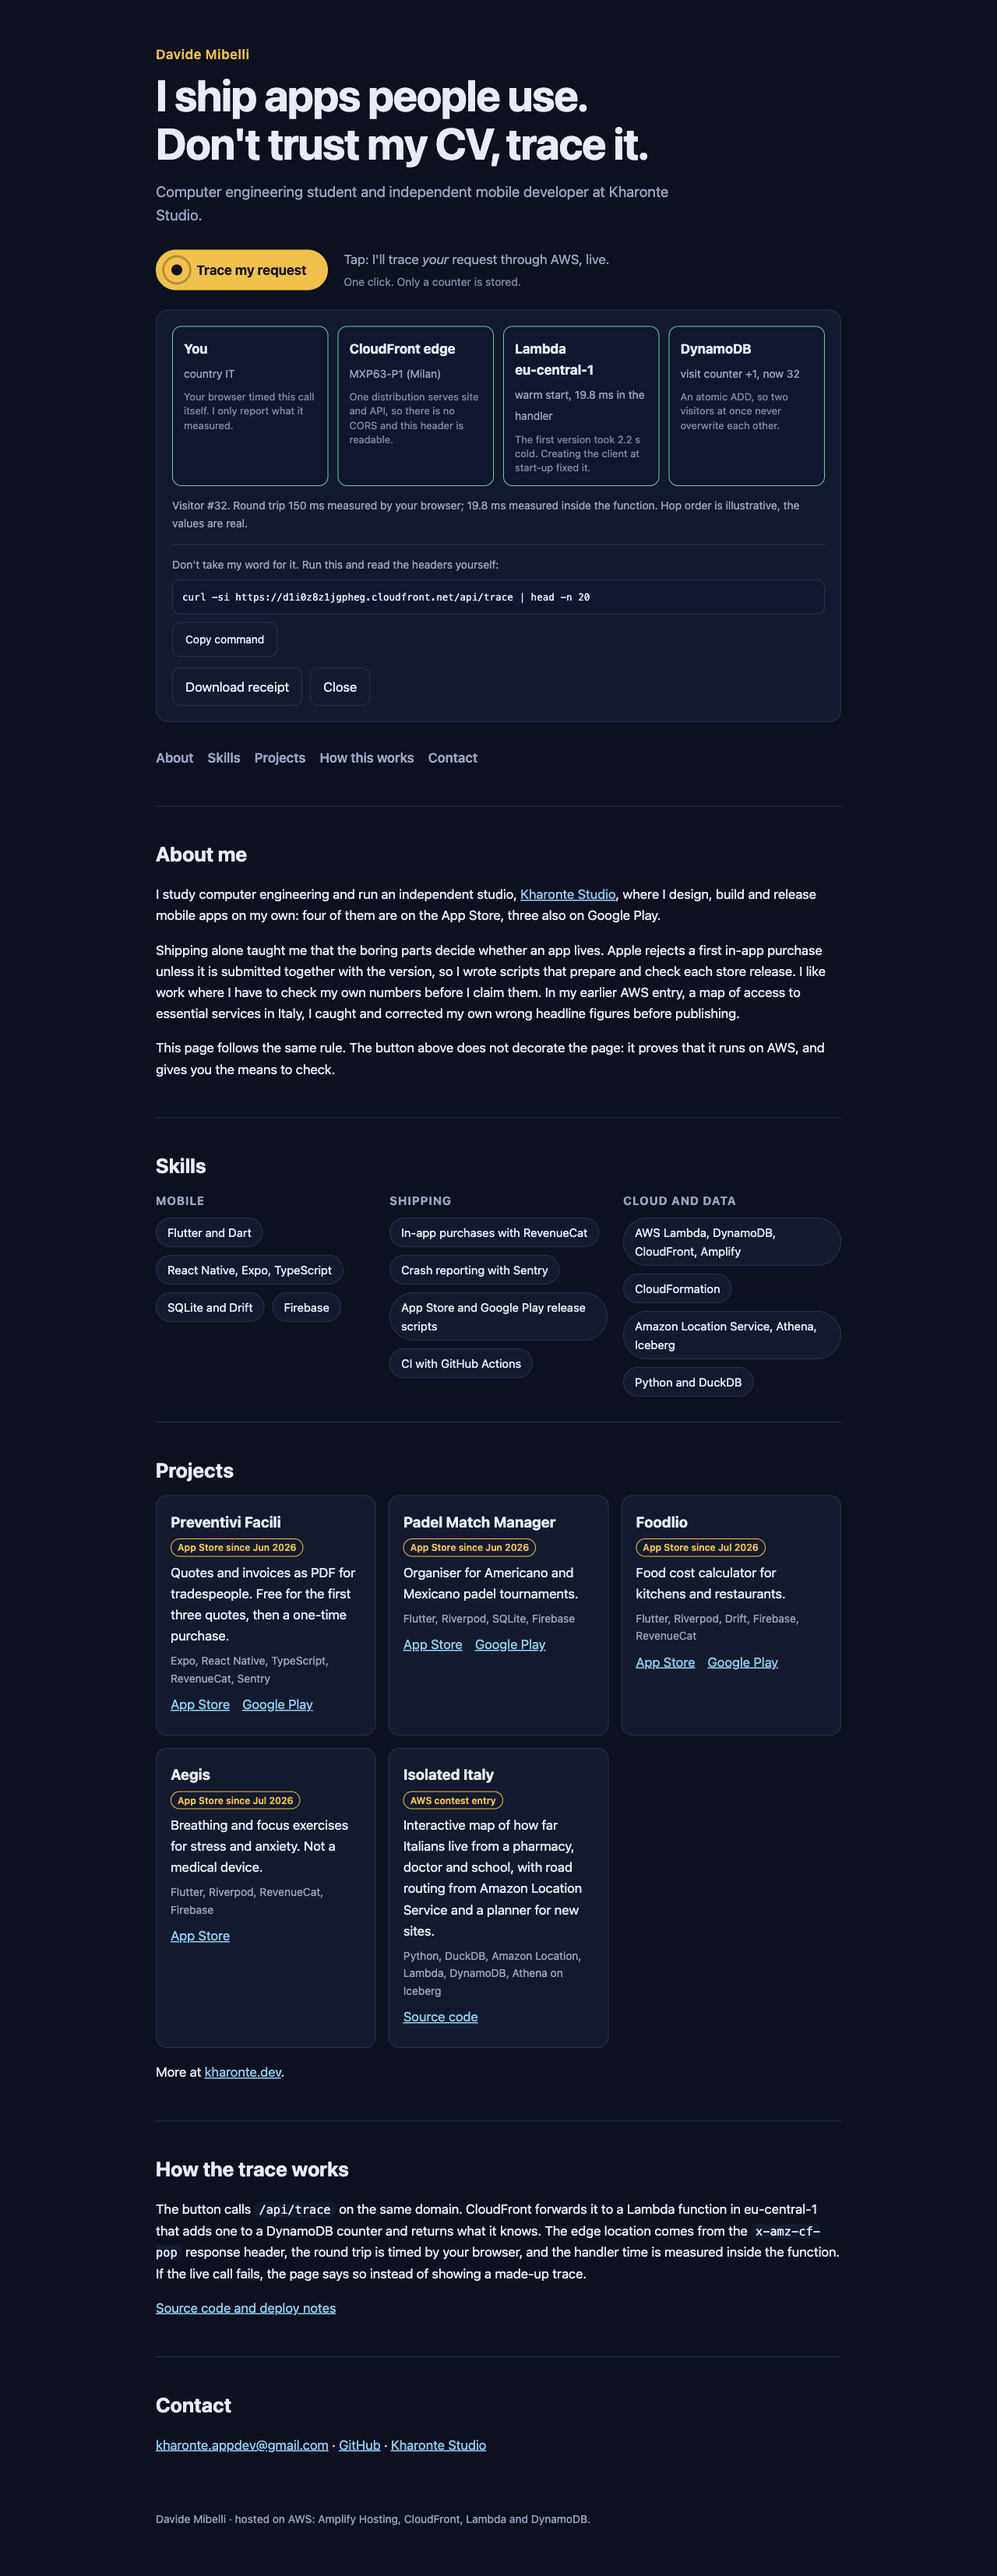
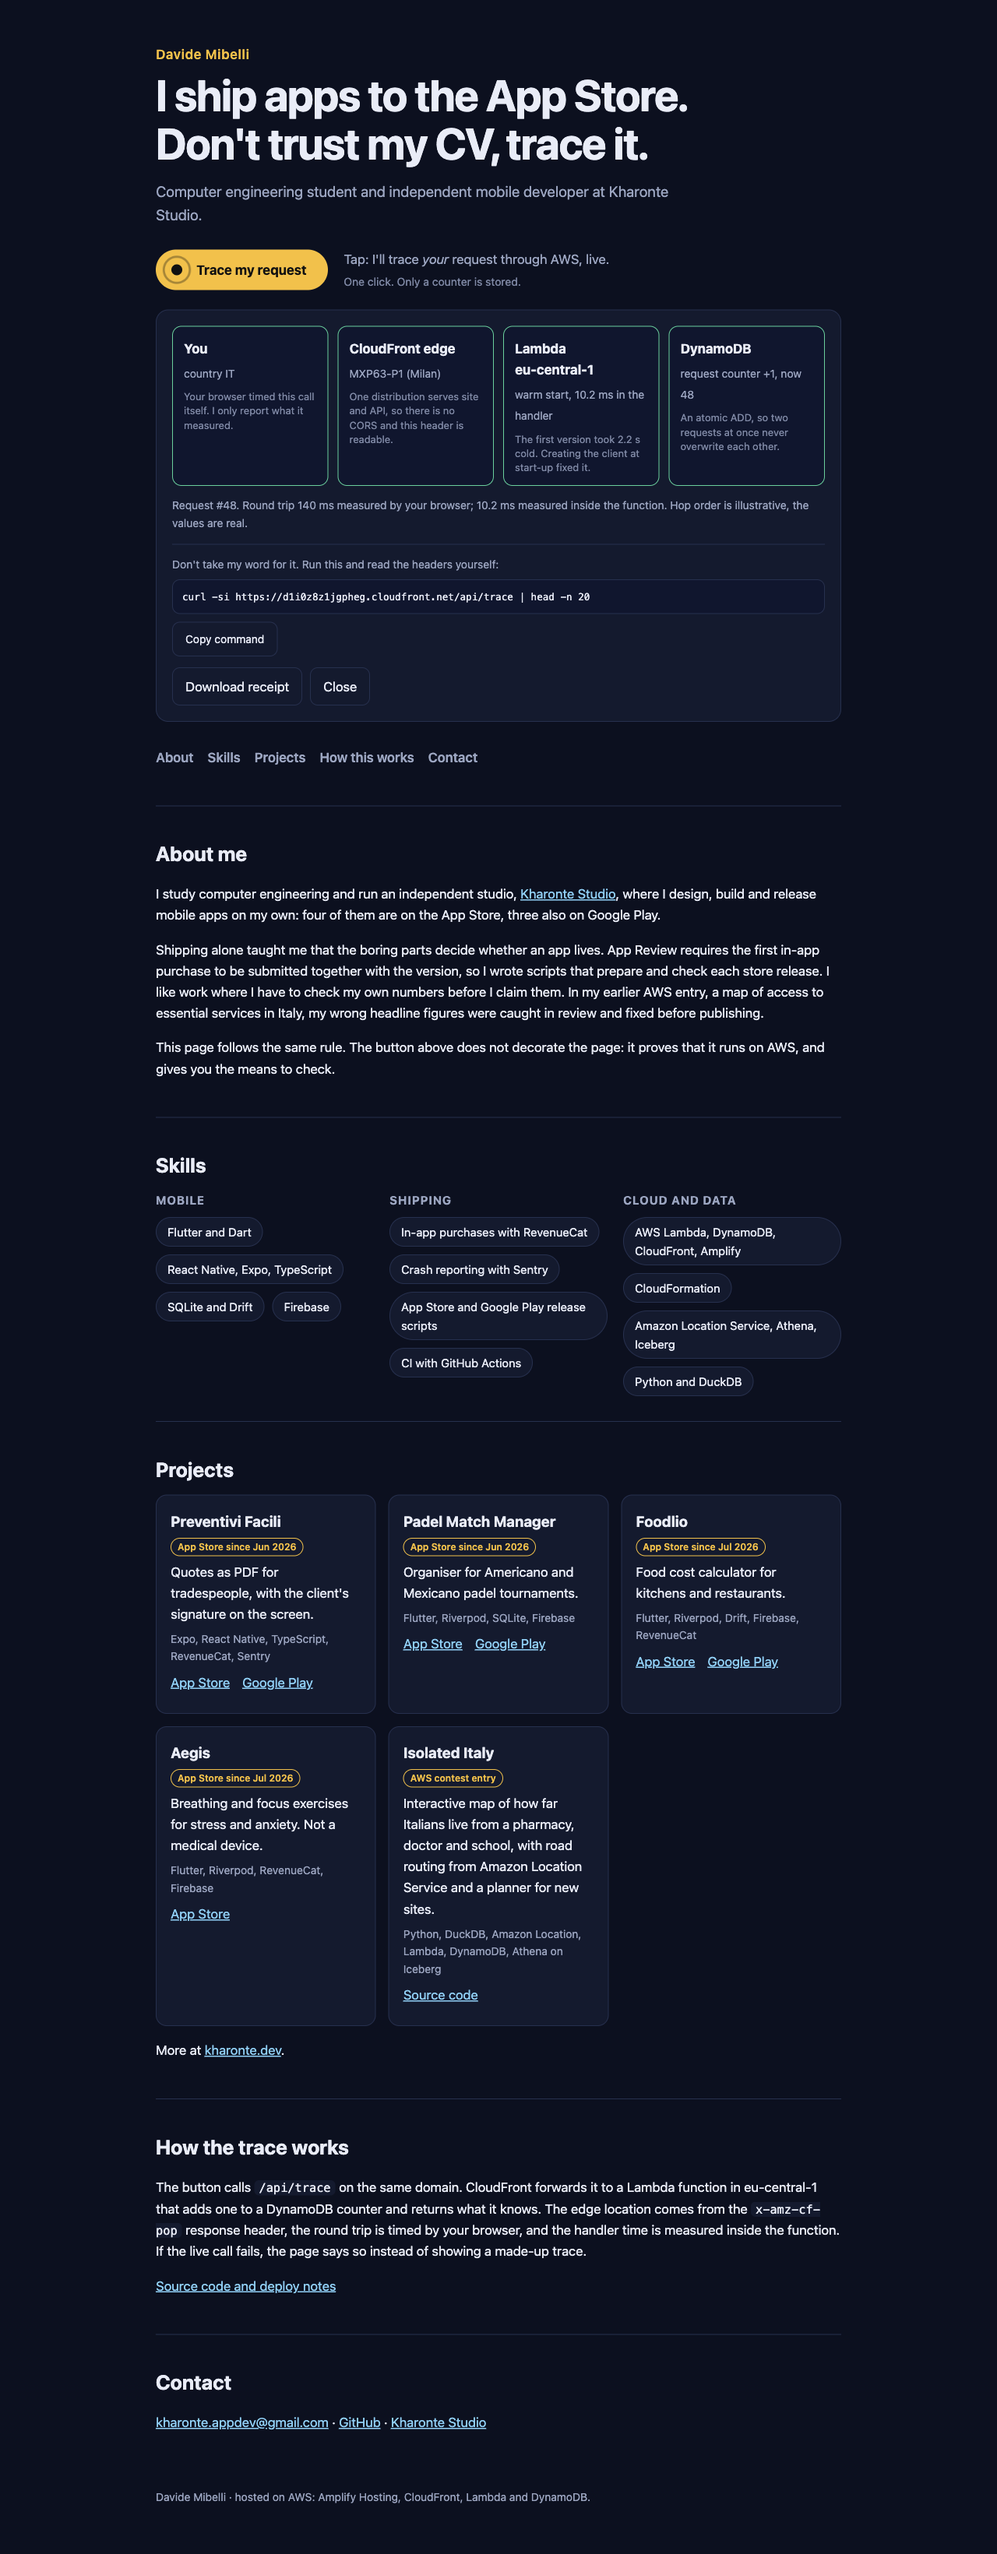
fix: wording that the files did not support, request counter, limits and privacy notes in the README, refreshed screenshots

diff --git a/web/index.html b/web/index.html
@@ -25,7 +25,7 @@
     <a class="skip" href="#about">Skip to content</a>
     <header class="hero">
       <p class="eyebrow">Davide Mibelli</p>
-      <h1>I ship apps people use.<br />Don't trust my CV, trace it.</h1>
+      <h1>I ship apps to the App Store.<br />Don't trust my CV, trace it.</h1>
       <p class="lead">Computer engineering student and independent mobile developer at Kharonte Studio.</p>
       <div class="beacon-row">
         <button id="beacon" class="beacon" type="button" aria-describedby="beacon-hint">
@@ -68,11 +68,11 @@
           mobile apps on my own: four of them are on the App Store, three also on Google Play.
         </p>
         <p>
-          Shipping alone taught me that the boring parts decide whether an app lives. Apple rejects a first
-          in-app purchase unless it is submitted together with the version, so I wrote scripts that prepare
-          and check each store release. I like work where I have to check my own numbers before I claim them.
-          In my earlier AWS entry, a map of access to essential services in Italy, I caught and corrected my
-          own wrong headline figures before publishing.
+          Shipping alone taught me that the boring parts decide whether an app lives. App Review requires the
+          first in-app purchase to be submitted together with the version, so I wrote scripts that prepare and
+          check each store release. I like work where I have to check my own numbers before I claim them. In
+          my earlier AWS entry, a map of access to essential services in Italy, my wrong headline figures were
+          caught in review and fixed before publishing.
         </p>
         <p>
           This page follows the same rule. The button above does not decorate the page: it proves that it runs
@@ -118,10 +118,7 @@
         <div class="cards">
           <article class="card">
             <h3>Preventivi Facili <span class="tag">App Store since Jun 2026</span></h3>
-            <p>
-              Quotes and invoices as PDF for tradespeople. Free for the first three quotes, then a one-time
-              purchase.
-            </p>
+            <p>Quotes as PDF for tradespeople, with the client's signature on the screen.</p>
             <p class="stack">Expo, React Native, TypeScript, RevenueCat, Sentry</p>
             <p class="links">
               <a href="https://apps.apple.com/it/app/id6775595665" rel="noopener">App Store</a>

diff --git a/web/src/trace.js b/web/src/trace.js
@@ -137,8 +137,8 @@ export function hops(trace) {
     {
       id: "db",
       title: "DynamoDB",
-      detail: `visit counter +1, now ${trace.visit}`,
-      why: "An atomic ADD, so two visitors at once never overwrite each other.",
+      detail: `request counter +1, now ${trace.visit}`,
+      why: "An atomic ADD, so two requests at once never overwrite each other.",
     },
   ];
 }
@@ -152,7 +152,7 @@ export function receiptLines(trace, now = new Date()) {
     "issued by Davide Mibelli",
     stamp,
     "--------------------------------",
-    `visitor      #${trace.visit}`,
+    `request      #${trace.visit}`,
     `edge         ${trace.pop ? trace.pop.raw : "n/a"}${city ? ` (${city})` : ""}`,
     `lambda       ${trace.region} (${trace.coldStart ? "cold" : "warm"})`,
     `handler      ${trace.handlerMs} ms`,

diff --git a/web/src/main.js b/web/src/main.js
@@ -44,7 +44,7 @@ async function reveal(trace) {
   }
   $("trace-note").className = "note";
   $("trace-note").textContent =
-    `Visitor #${trace.visit}. Round trip ${trace.roundTripMs} ms measured by your browser; ` +
+    `Request #${trace.visit}. Round trip ${trace.roundTripMs} ms measured by your browser; ` +
     `${trace.handlerMs} ms measured inside the function. Hop order is illustrative, the values are real.`;
   $("receipt").hidden = false;
   $("verify").hidden = false;

diff --git a/web/tests/trace.test.js b/web/tests/trace.test.js
@@ -71,7 +71,7 @@ describe("hops and receipt", () => {
   });
   it("never prints the full request id", () => {
     const text = receiptLines(t, new Date("2026-11-05T10:00:00Z")).join("\n");
-    expect(text).toContain("visitor      #12");
+    expect(text).toContain("request      #12");
     expect(text).toContain("2026-11-05 10:00 UTC");
     expect(text).not.toContain(body.requestId);
   });

diff --git a/README.md b/README.md
@@ -1,5 +1,9 @@
 # Trace portfolio
 
+**Live:** https://d1i0z8z1jgpheg.cloudfront.net
+
+![The portfolio after one tap](docs/screenshots/trace-open.png)
+
 Personal portfolio of Davide Mibelli, built for the AWS Student Builder Challenge. Its creative feature is a trace of
 the visitor's own request through AWS: one tap, and the page shows the real edge location, the Lambda region, whether
 the function was cold or warm, the time measured in the handler and in the browser, and a visit counter. The trace can
@@ -20,7 +24,13 @@ flowchart LR
   `x-amz-cf-pop` response header that names the edge location.
 - `/api/*` uses the managed CachingDisabled policy: every trace is a fresh request.
 - The Lambda function URL uses AWS_IAM auth, reachable only through CloudFront (origin access control).
-- DynamoDB stores one item: an anonymous counter. The visitor's IP address is not read or stored.
+- DynamoDB stores one item: an anonymous request counter. Every call to `/api/trace` adds one, including calls made with curl.
+- The function never reads the visitor's IP address. The country shown on the page comes from the `CloudFront-Viewer-Country` header, is returned to the visitor and is not stored. AWS service logs keep request IDs and timings.
+
+## Limits
+
+- The public endpoint has no rate limit; the cost protection is a budget alert (1 USD, created in the console, not part of the stack), which warns but does not stop spending. Usage is expected to stay inside the free tier (an estimate, not measured).
+- The text under each hop is written by me and is not measured. Hop order is illustrative.
 
 ## Checks you can repeat
 
